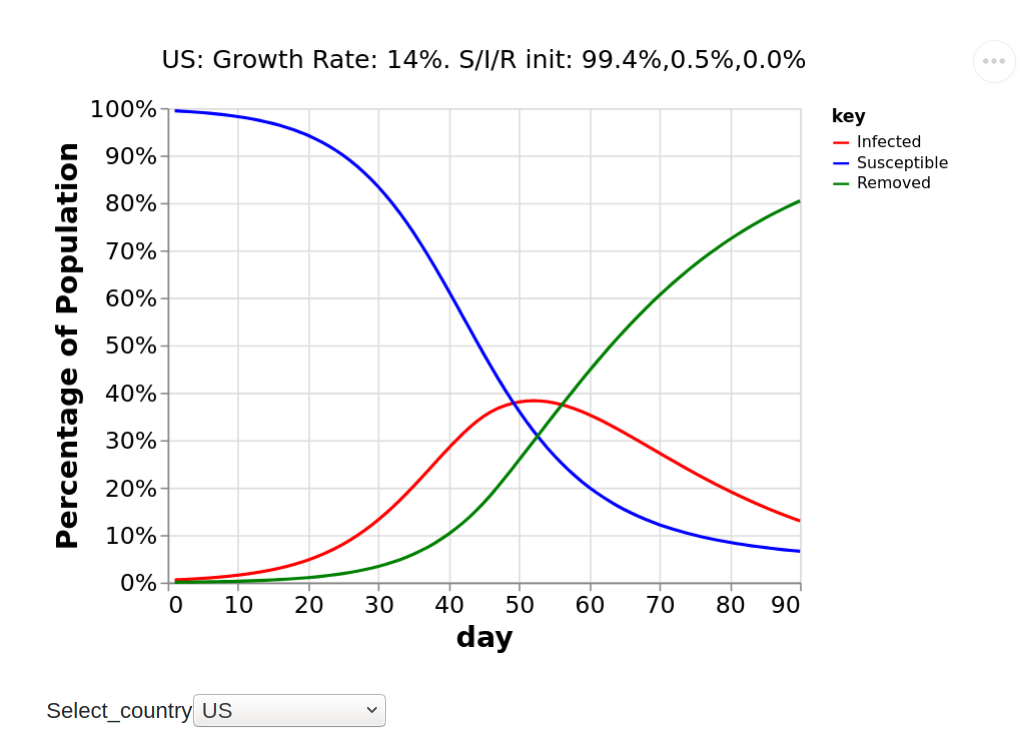
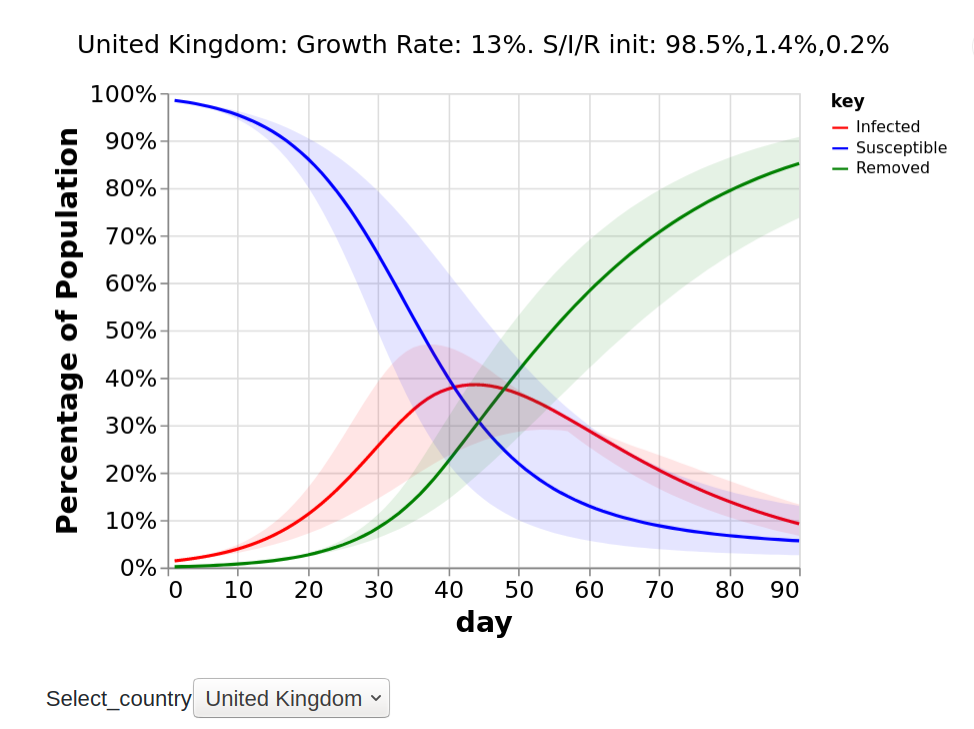
Add confidence bands to plots.

diff --git a/_notebooks/covid_helpers.py b/_notebooks/covid_helpers.py
@@ -2,6 +2,7 @@ import os
 from urllib import request
 
 import pandas as pd
+import numpy as np
 
 data_folder = (os.path.join(os.path.dirname(__file__), 'data_files')
                if '__file__' in locals() else 'data_files')
@@ -281,19 +282,18 @@ class OverviewData:
 
         df['affected_ratio'] = df['Cases.total'] / df['population']
 
-        past_recovered, past_active = cls._calculate_recovered_and_active_until_now(df)
+        past_active, past_recovered = cls._calculate_recovered_and_active_until_now(df)
 
-        df, recovered, active = cls._run_model_forward(
+        df, traces = cls._run_model_forward(
             df,
-            past_recovered=past_recovered.copy(),
             past_active=past_active.copy(),
+            past_recovered=past_recovered.copy(),
             projection_days=projection_days)
 
         if len(debug_countries):
             debug_dfs = cls._SIR_timeseries_for_countries(
                 debug_countries=debug_countries,
-                past_recovered=recovered,
-                past_active=active,
+                traces=traces,
                 simulation_start_day=len(past_recovered) - 1,
                 growth_rate=df['growth_rate'])
             return df, debug_dfs
@@ -309,7 +309,7 @@ class OverviewData:
 
         # run through history and estimate recovered and active using:
         # https://covid19dashboards.com/outstanding_cases/#Appendix:-Methodology-of-Predicting-Recovered-Cases
-        recs, actives = [], []
+        actives, recs = [], []
         zeros_series = lagged_cases_ratios[cls.dt_cols[0]] * 0  # this is to have consistent types
         for day in range(len(cls.dt_cols)):
             prev_rec = recs[day - 1] if day > 0 else zeros_series
@@ -317,13 +317,13 @@ class OverviewData:
             recs.append(prev_rec + (tot_lagged_9 - prev_rec) * cls.recovery_lagged9_rate)
             actives.append(lagged_cases_ratios[cls.dt_cols[day]] - recs[day])
 
-        return recs, actives
+        return actives, recs
 
     @classmethod
     def _run_model_forward(cls,
                            df,
-                           past_recovered,
                            past_active,
+                           past_recovered,
                            projection_days,
                            ):
 
@@ -331,19 +331,55 @@ class OverviewData:
         df['growth_rate'] = (cur_growth_rate - 1)
         df['growth_rate_std'] = growsth_rate_std
 
-        rec, act = cls.run_sir_mode(past_recovered,
-                                    past_active,
-                                    cur_growth_rate,
-                                    n_days=projection_days[-1])
+        sus, act, rec = cls.run_sir_mode(
+            past_recovered, past_active, cur_growth_rate, n_days=projection_days[-1])
+
+        # sample more growth rates
+        sus_lists = [[s] for s in sus]
+        act_lists = [[a] for a in act]
+        rec_lists = [[r] for r in rec]
+
+        for ratio in np.linspace(-1, 1, 10):
+            pert_growth = cur_growth_rate + ratio * growsth_rate_std
+            pert_growth[pert_growth < 0] = 0
+            sus_other, act_other, rec_other = cls.run_sir_mode(
+                past_recovered, past_active, pert_growth, n_days=projection_days[-1])
+            for s_list, s in zip(sus_lists, sus_other):
+                s_list.append(s)
+            for a_list, a in zip(act_lists, act_other):
+                a_list.append(a)
+            for r_list, r in zip(rec_lists, rec_other):
+                r_list.append(r)
+
+        def list_to_max_min(l):
+            concated = [pd.concat(sub_l, axis=1) for sub_l in l]
+            max_list, min_list = zip(*[(d.max(1), d.min(1)) for d in concated])
+            return max_list, min_list
+
+        sus_max, sus_min = list_to_max_min(sus_lists)
+        act_max, act_min = list_to_max_min(act_lists)
+        rec_max, rec_min = list_to_max_min(rec_lists)
 
         day_one = len(past_recovered)
         for day in [1] + list(projection_days):
             ind = day_one + day - 1
             suffix = f'.+{day}d' if day > 1 else ''
-            df[f'needICU.per100k{suffix}'] = act[ind] * df['population'] * cls.ICU_ratio / 1e5
-            df[f'affected_ratio.est{suffix}'] = rec[ind] + act[ind]
+            icu_max = df['population'] * cls.ICU_ratio / 1e5
+            df[f'needICU.per100k{suffix}'] = act[ind] * icu_max
+            df[f'needICU.per100k{suffix}.max'] = act_max[ind] * icu_max
+            df[f'needICU.per100k{suffix}.min'] = act_min[ind] * icu_max
 
-        return df, rec, act
+            df[f'affected_ratio.est{suffix}'] = 1 - sus[ind]
+            df[f'affected_ratio.est{suffix}.max'] = 1 - sus_min[ind]
+            df[f'affected_ratio.est{suffix}.min'] = 1 - sus_max[ind]
+
+        traces = {
+            'sus_center': sus, 'sus_max': sus_max, 'sus_min': sus_min,
+            'act_center': act, 'act_max': act_max, 'act_min': act_min,
+            'rec_center': rec, 'rec_max': rec_max, 'rec_min': rec_min,
+        }
+
+        return df, traces
 
     @classmethod
     def run_sir_mode(cls, past_rec, past_act, growth, n_days):
@@ -377,18 +413,27 @@ class OverviewData:
             rec.append(new_recovered)
             act.append(new_active)
 
-        return rec, act
+        sus = [1 - r - a for r, a in zip(rec, act)]
+
+        return sus, act, rec
 
     @classmethod
-    def _SIR_timeseries_for_countries(cls, debug_countries, past_recovered,
-                                      past_active, simulation_start_day, growth_rate):
+    def _SIR_timeseries_for_countries(cls, debug_countries, traces,
+                                      simulation_start_day, growth_rate):
         dfs = []
         for debug_country in debug_countries:
             debug = [{'day': day - simulation_start_day,
-                      'Susceptible': (1 - a - r)[debug_country],
-                      'Infected': a[debug_country],
-                      'Removed': r[debug_country]}
-                     for day, (r, a) in enumerate(zip(past_recovered, past_active))
+                      'Susceptible': traces['sus_center'][day][debug_country],
+                      'Susceptible.max': traces['sus_max'][day][debug_country],
+                      'Susceptible.min': traces['sus_min'][day][debug_country],
+                      'Infected': traces['act_center'][day][debug_country],
+                      'Infected.max': traces['act_max'][day][debug_country],
+                      'Infected.min': traces['act_min'][day][debug_country],
+                      'Removed': traces['rec_center'][day][debug_country],
+                      'Removed.max': traces['rec_max'][day][debug_country],
+                      'Removed.min': traces['rec_min'][day][debug_country],
+                      }
+                     for day in range(len(traces['rec_center']))
                      if day > simulation_start_day]
 
             title = (f"{debug_country}: "

diff --git a/_notebooks/2020-04-05-covid19-affected-population.py b/_notebooks/2020-04-05-covid19-affected-population.py
@@ -108,35 +108,32 @@ title = (alt.Chart(df_alt[['country', 'title']].drop_duplicates())
               .encode(text='title:N')
               .transform_filter(select_country))
 
+base = alt.Chart(df_alt).encode(x='day:Q')
+
 line_cols = ['Infected', 'Susceptible', 'Removed']
-lines = (alt.Chart(df_alt)
-       .mark_line()
+colors = ['red', 'blue', 'green']
+lines = (base.mark_line()
        .transform_fold(line_cols)
-        .encode(x='day:Q', 
-                y=alt.Y('value:Q', axis=alt.Axis(
-                    format='%', title='Percentage of Population')), 
-                color=alt.Color(
-                    'key:N', scale=alt.Scale(
-                        domain=line_cols, range=['red', 'blue', 'green'])))
-            .add_selection(select_country)
-            .transform_filter(select_country))
-((lines + title)
+       .encode(x='day:Q',
+                y=alt.Y('value:Q',
+                        axis=alt.Axis(format='%', title='Percentage of Population')),
+                color=alt.Color('key:N',
+                                scale=alt.Scale(domain=line_cols, range=colors))))
+
+import functools
+bands = functools.reduce(alt.Chart.__add__,
+                         [base.mark_area(opacity=0.1, color=color)
+                          .encode(y=f'{col}\.max:Q',y2=f'{col}\.min:Q')
+                          for col, color in zip(line_cols, colors)])
+
+
+((lines + bands + title)
+ .add_selection(select_country)
+ .transform_filter(select_country)
  .configure_title(fontSize=20)
  .configure_axis(labelFontSize=15, titleFontSize=18, grid=True))
 # -
 
 # ## Appendix
 # <a id='appendix'></a>
-#
-# - Total case estimation calculated from deaths by:
-#     - Assuming that unbiased fatality rate is 1.5% (from heavily tested countries / the cruise ship data) and that it takes 8 days on average for a case to go from being confirmed positive (after incubation + testing lag) to death. This is the same figure used by ["Estimating The Infected Population From Deaths"](https://covid19dashboards.com/covid-infected/).
-#     - Testing bias: the actual lagged fatality rate is than divided by the 1.5% figure to estimate the testing bias in a country. The estimated testing bias then multiplies the reported case numbers to estimate the *true* case numbers (*=case numbers if testing coverage was as comprehensive as in the heavily tested countries*).
-#     - The testing bias calculation is a high source of uncertainty in all these estimations and projections. Better source of testing bias (or just *true case* numbers), should make everything more accurate.
-# - Projection is done using a simple [SIR model](https://en.wikipedia.org/wiki/Compartmental_models_in_epidemiology#The_SIR_model) with (see [examples](#examples)) combined with the approach in [Total Outstanding Cases](https://covid19dashboards.com/outstanding_cases/#Appendix:-Methodology-of-Predicting-Recovered-Cases):
-#     - Growth rate calculated over the 5 past days. This is pessimistic - because it includes the testing rate growth rate as well, and is slow to react to both improvements in test coverage and "flattening" due to social isolation.
-#     - Recovery probability being 1/20 (for 20 days to recover) where the rate estimated from [Total Outstanding Cases](https://covid19dashboards.com/outstanding_cases/#Appendix:-Methodology-of-Predicting-Recovered-Cases) is too high (on down-slopes).
-# - ICU need is calculated as being [6% of active cases](https://medium.com/@joschabach/flattening-the-curve-is-a-deadly-delusion-eea324fe9727) where:
-#     - Active cases are taken from the SIR model.
-#     - This is both pessimistic - because real ICU rate may in reality be lower, due to testing biases, and especially in "younger" populations), and optimistic - because active cases which are on ICU take longer (so need the ICUs for longer).
-#     - ICU capacities are from [Wikipedia](https://en.wikipedia.org/wiki/List_of_countries_by_hospital_beds) (OECD countries mostly) and [CCB capacities in Asia](https://www.researchgate.net/publication/338520008_Critical_Care_Bed_Capacity_in_Asian_Countries_and_Regions).
-#     - ICU spare capacity is based on 70% normal occupancy rate ([66% in US](https://www.sccm.org/Blog/March-2020/United-States-Resource-Availability-for-COVID-19), [75% OECD](https://www.oecd-ilibrary.org/social-issues-migration-health/health-at-a-glance-2019_4dd50c09-en))
+# [See appendix in main notebook](/notebook-posts/covid-progress-projections/#appendix)

diff --git a/_notebooks/2020-04-04-covid19-icu-projections.py b/_notebooks/2020-04-04-covid19-icu-projections.py
@@ -112,35 +112,32 @@ title = (alt.Chart(df_alt[['country', 'title']].drop_duplicates())
               .encode(text='title:N')
               .transform_filter(select_country))
 
+base = alt.Chart(df_alt).encode(x='day:Q')
+
 line_cols = ['Infected', 'Susceptible', 'Removed']
-lines = (alt.Chart(df_alt)
-       .mark_line()
+colors = ['red', 'blue', 'green']
+lines = (base.mark_line()
        .transform_fold(line_cols)
-        .encode(x='day:Q',
-                y=alt.Y('value:Q', axis=alt.Axis(
-                    format='%', title='Percentage of Population')),
-                color=alt.Color(
-                    'key:N', scale=alt.Scale(
-                        domain=line_cols, range=['red', 'blue', 'green'])))
-            .add_selection(select_country)
-            .transform_filter(select_country))
-((lines + title)
+       .encode(x='day:Q',
+                y=alt.Y('value:Q',
+                        axis=alt.Axis(format='%', title='Percentage of Population')),
+                color=alt.Color('key:N',
+                                scale=alt.Scale(domain=line_cols, range=colors))))
+
+import functools
+bands = functools.reduce(alt.Chart.__add__,
+                         [base.mark_area(opacity=0.1, color=color)
+                          .encode(y=f'{col}\.max:Q',y2=f'{col}\.min:Q')
+                          for col, color in zip(line_cols, colors)])
+
+
+((lines + bands + title)
+ .add_selection(select_country)
+ .transform_filter(select_country)
  .configure_title(fontSize=20)
  .configure_axis(labelFontSize=15, titleFontSize=18, grid=True))
 # -
 
 # ## Appendix
 # <a id='appendix'></a>
-#
-# - Total case estimation calculated from deaths by:
-#     - Assuming that unbiased fatality rate is 1.5% (from heavily tested countries / the cruise ship data) and that it takes 8 days on average for a case to go from being confirmed positive (after incubation + testing lag) to death. This is the same figure used by ["Estimating The Infected Population From Deaths"](https://covid19dashboards.com/covid-infected/).
-#     - Testing bias: the actual lagged fatality rate is than divided by the 1.5% figure to estimate the testing bias in a country. The estimated testing bias then multiplies the reported case numbers to estimate the *true* case numbers (*=case numbers if testing coverage was as comprehensive as in the heavily tested countries*).
-#     - The testing bias calculation is a high source of uncertainty in all these estimations and projections. Better source of testing bias (or just *true case* numbers), should make everything more accurate.
-# - Projection is done using a simple [SIR model](https://en.wikipedia.org/wiki/Compartmental_models_in_epidemiology#The_SIR_model) with (see [examples](#examples)) combined with the approach in [Total Outstanding Cases](https://covid19dashboards.com/outstanding_cases/#Appendix:-Methodology-of-Predicting-Recovered-Cases):
-#     - Growth rate calculated over the 5 past days. This is pessimistic - because it includes the testing rate growth rate as well, and is slow to react to both improvements in test coverage and "flattening" due to social isolation.
-#     - Recovery probability being 1/20 (for 20 days to recover) where the rate estimated from [Total Outstanding Cases](https://covid19dashboards.com/outstanding_cases/#Appendix:-Methodology-of-Predicting-Recovered-Cases) is too high (on down-slopes).
-# - ICU need is calculated as being [6% of active cases](https://medium.com/@joschabach/flattening-the-curve-is-a-deadly-delusion-eea324fe9727) where:
-#     - Active cases are taken from the SIR model.
-#     - This is both pessimistic - because real ICU rate may in reality be lower, due to testing biases, and especially in "younger" populations), and optimistic - because active cases which are on ICU take longer (so need the ICUs for longer).
-#     - ICU capacities are from [Wikipedia](https://en.wikipedia.org/wiki/List_of_countries_by_hospital_beds) (OECD countries mostly) and [CCB capacities in Asia](https://www.researchgate.net/publication/338520008_Critical_Care_Bed_Capacity_in_Asian_Countries_and_Regions).
-#     - ICU spare capacity is based on 70% normal occupancy rate ([66% in US](https://www.sccm.org/Blog/March-2020/United-States-Resource-Availability-for-COVID-19), [75% OECD](https://www.oecd-ilibrary.org/social-issues-migration-health/health-at-a-glance-2019_4dd50c09-en))
+# [See appendix in main notebook](/notebook-posts/covid-progress-projections/#appendix)

diff --git a/_notebooks/2020-03-27-covid19-progress-projections.py b/_notebooks/2020-03-27-covid19-progress-projections.py
@@ -153,19 +153,28 @@ title = (alt.Chart(df_alt[['country', 'title']].drop_duplicates())
               .encode(text='title:N')
               .transform_filter(select_country))
 
+base = alt.Chart(df_alt).encode(x='day:Q')
+
 line_cols = ['Infected', 'Susceptible', 'Removed']
-lines = (alt.Chart(df_alt)
-       .mark_line()
+colors = ['red', 'blue', 'green']
+lines = (base.mark_line()
        .transform_fold(line_cols)
-        .encode(x='day:Q',
-                y=alt.Y('value:Q', axis=alt.Axis(
-                    format='%', title='Percentage of Population')),
-                color=alt.Color(
-                    'key:N', scale=alt.Scale(
-                        domain=line_cols, range=['red', 'blue', 'green'])))
-            .add_selection(select_country)
-            .transform_filter(select_country))
-((lines + title)
+       .encode(x='day:Q',
+                y=alt.Y('value:Q', 
+                        axis=alt.Axis(format='%', title='Percentage of Population')),
+                color=alt.Color('key:N', 
+                                scale=alt.Scale(domain=line_cols, range=colors))))
+
+import functools
+bands = functools.reduce(alt.Chart.__add__, 
+                         [base.mark_area(opacity=0.1, color=color)
+                          .encode(y=f'{col}\.max:Q',y2=f'{col}\.min:Q') 
+                          for col, color in zip(line_cols, colors)])
+
+
+((lines + bands + title)
+ .add_selection(select_country)
+ .transform_filter(select_country)
  .configure_title(fontSize=20)
  .configure_axis(labelFontSize=15, titleFontSize=18, grid=True))
 # -
@@ -229,7 +238,8 @@ df.sort_values('needICU.per100k.+14d', ascending=False)\
 #     - The testing bias calculation is a high source of uncertainty in all these estimations and projections. Better source of testing bias (or just *true case* numbers), should make everything more accurate.
 # - Projection is done using a simple [SIR model](https://en.wikipedia.org/wiki/Compartmental_models_in_epidemiology#The_SIR_model) with (see [examples](#examples)) combined with the approach in [Total Outstanding Cases](https://covid19dashboards.com/outstanding_cases/#Appendix:-Methodology-of-Predicting-Recovered-Cases):
 #     - Growth rate calculated over the 5 past days. This is pessimistic - because it includes the testing rate growth rate as well, and is slow to react to both improvements in test coverage and "flattening" due to social isolation.
-#     - Recovery probability being 1/20 (for 20 days to recover) where the rate estimated from [Total Outstanding Cases](https://covid19dashboards.com/outstanding_cases/#Appendix:-Methodology-of-Predicting-Recovered-Cases) is too high (on down-slopes).
+#     - Confidence bounds are calculated by from the weighted STD of the growth rate over the last 5 days. Model predictions are calculated for growth rates within 1 STD of the weighted mean. The maximum and minimum values for each day are used as confidence bands.
+#     - Recovery probability being 1/20 (for 20 days to recover) where the rate estimated from [Total Outstanding Cases](https://covid19dashboards.com/outstanding_cases/#Appendix:-Methodology-of-Predicting-Recovered-Cases) is too high (on down-slopes).    
 # - ICU need is calculated as being [6% of active cases](https://medium.com/@joschabach/flattening-the-curve-is-a-deadly-delusion-eea324fe9727) where:
 #     - Active cases are taken from the SIR model.
 #     - This is both pessimistic - because real ICU rate may in reality be lower, due to testing biases, and especially in "younger" populations), and optimistic - because active cases which are on ICU take longer (so need the ICUs for longer).
